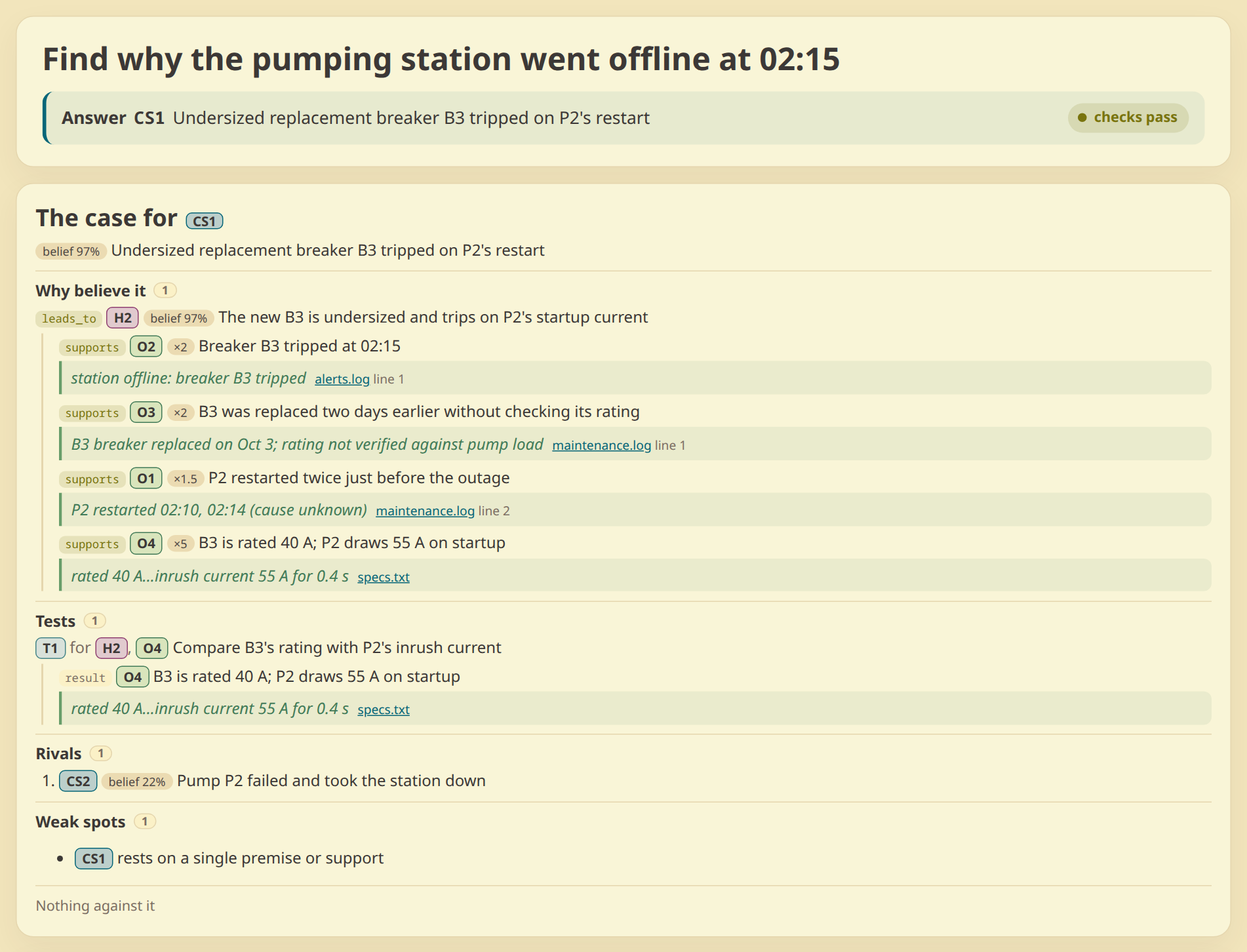
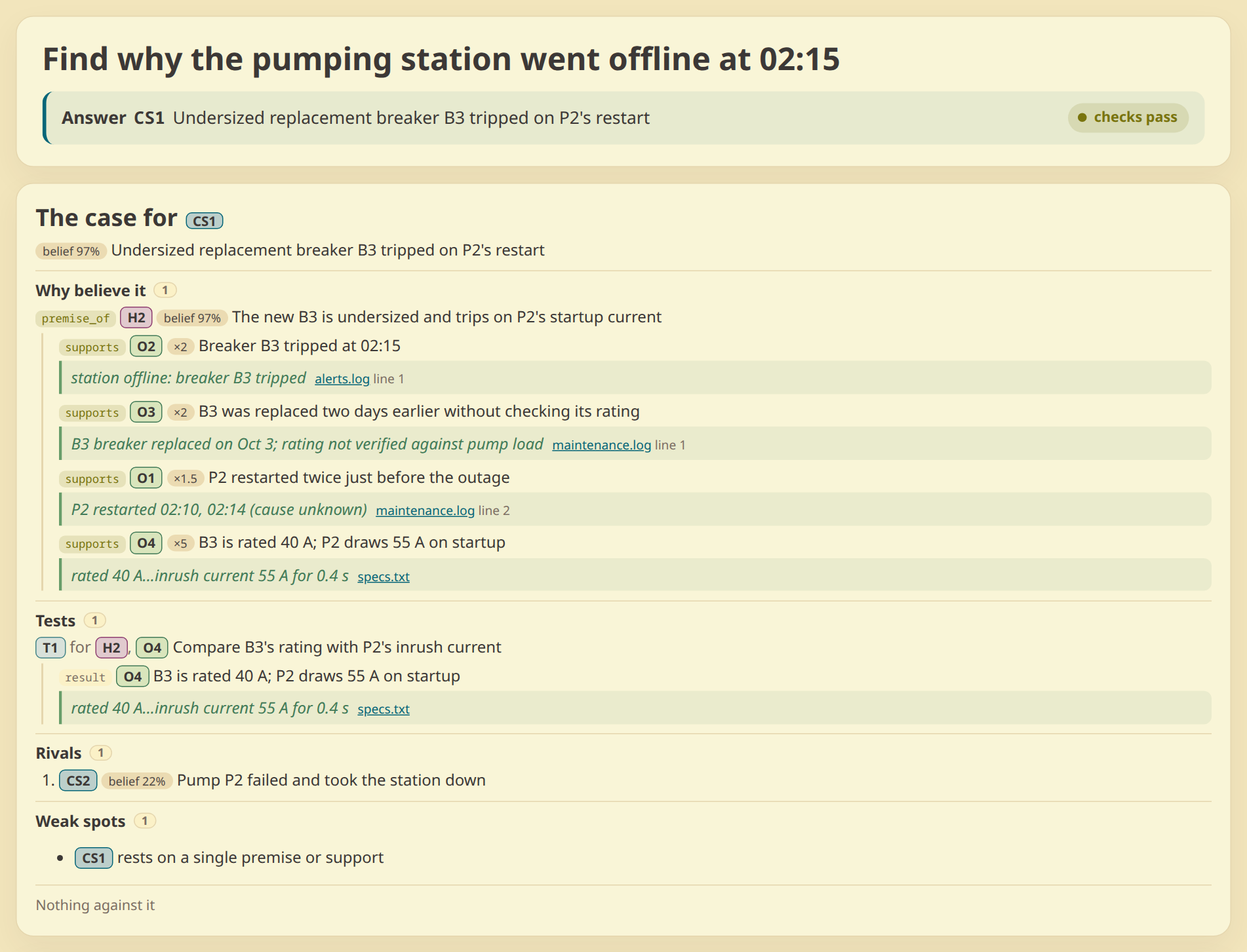
docs: describe premise_of and yields in the skill, docs, and ADR 0017
Rewords every leads_to in the skill text and its docs, the README, and
the README example, and rebuilds the screenshots, where only the edge
chip changes. ADR 0017 records the split and how to read leads_to in
earlier ADRs.

diff --git a/skills/reasoning-graph/SKILL.md b/skills/reasoning-graph/SKILL.md
@@ -73,7 +73,7 @@ Make every change through a patch. For what a patch cannot reach (`goal_policy`,
 
 - **Observations cite their source.** Set `source` to where the fact came from (file and line, section, URL, command); for a local file, start `source` with its path. When the source is text, set `quote` to the exact excerpt, hedges included ("may", "expert needed", "not checked"); join separate excerpts with `...`. `record` rejects a quote that is not verbatim in the local file its `source` names. An observation claims no more than its quote.
 - **Checks you cannot run are marked, not answered.** Add a `test` node for each check that would settle a claim, even one nobody can run here (a lab exam, an interview, forensics on a case file). Set `not_run` on it to the reason; it then needs no result, cannot have one, and shows as "not run" in the view. Never write a result for a check that did not happen.
-- **Tests get results.** A run test records what came back as an `observation` linked `test --leads_to--> observation`. A failed or inconclusive probe is still a result, and so is "not run: made moot by O7". Link the result to the claim it tested, and to any conclusion drawn from it (a separate `hypothesis`), by what it means: choosing the edge, below. Shapes: `docs/schema/tests.md`.
+- **Tests get results.** A run test records what came back as an `observation` linked `test --yields--> observation`. A failed or inconclusive probe is still a result, and so is "not run: made moot by O7". Link the result to the claim it tested, and to any conclusion drawn from it (a separate `hypothesis`), by what it means: choosing the edge, below. Shapes: `docs/schema/tests.md`.
 - **Alternatives are your call.** Add competing hypotheses or candidates when the choice between them matters to you or the task asks for alternatives; no check counts them. When at most one of them can be true, list them in an exclusive set (below).
 - **Notes are your memory.** Any node or edge may carry a `note`: caveats, what is left to check, why an inference holds, anything you want to find again when you reread the state. Write one on an edge when its score departs from the default or the link is not obvious from the two texts. What concerns no node goes in a file of your own.
 - **One node per claim for its whole life:** update it with `update_nodes` as evidence arrives instead of adding a second node for the proved form.
@@ -88,13 +88,13 @@ Delegation is optional: bounded probes (source research, file inspection, test r
 
 - every accepted goal has a `candidate_solution` answering it (or is listed in `goal_policy.optional_goals`)
 - `answer` names exactly one candidate per goal, by id or exact text. A goal's only candidate is not the answer until you name it
-- the answer candidate is evidence-grounded: all of its `leads_to` premises are grounded, or its evidence favors it on balance, counting `supports` only from grounded sources and `contradicts` from any source; observations are the base, and a score never grounds a claim
+- the answer candidate is evidence-grounded: all of its premises are grounded, or its evidence favors it on balance, counting `supports` only from grounded sources and `contradicts` from any source; observations are the base, and a score never grounds a claim
 - every `test` node has a result observation or a `not_run` reason
 
 No belief level and no ranking is checked: the answer is the candidate you name, not the one that scores highest.
 
 - If the evidence does not decide it, or you are blocked, claim no answer. Record the blocker as a hypothesis and report the open hypotheses.
-- A hypothesis that wins by elimination needs that elimination recorded as positive evidence: an observation such as "H2 ruled out" that `supports` the survivor, or a `leads_to` premise from it as choosing the edge (below) describes. Contradicting its siblings does not ground the survivor.
+- A hypothesis that wins by elimination needs that elimination recorded as positive evidence: an observation such as "H2 ruled out" that `supports` the survivor, or a `premise_of` edge from it as choosing the edge (below) describes. Contradicting its siblings does not ground the survivor.
 - The CLI checks the record, not your reading of the sources: before claiming, reread each observation the answer relies on against its `quote`, and look for evidence in the sources that cuts against the answer.
 - Ask the user before deepening search when remaining work would cost meaningful time.
 
@@ -121,7 +121,7 @@ Keep working in the same state; nothing locks it. Put the rejection in one patch
 | 3 | open | ×2 |
 | 5 | well established | ×5, the ceiling: stronger evidence still counts ×5; never proof |
 
-Defaults: observation 5, hypothesis and candidate 3, evidence edge 3. A claim with `leads_to` premises from observations or claims carries no score (choosing the edge, below), and neither do goals, constraints, and tests.
+Defaults: observation 5, hypothesis and candidate 3, evidence edge 3. A claim with premises carries no score (choosing the edge, below), and neither do goals, constraints, and tests.
 
 An evidence edge is a likelihood ratio: how much more expected the observation is if the target is true than if it is false. It measures diagnosticity, not relevance. An observation that every rival explains about as well as the target is about as expected either way: a likelihood ratio near 1, so draw no edge. One that fits the target and some rivals but not the rest is still evidence for each claim it fits; the more rivals it also fits, the closer its ratio is to 1. An unscored edge still counts as score 3, ×2. A `contradicts` edge takes the reciprocal.
 
@@ -134,9 +134,9 @@ Machine-readable contracts: `reasoning-graph schema state` and `reasoning-graph 
 Node types:
 
 - `goal` — target to prove, solve, decide, or explain
-- `observation` — what was seen, given, verified, or source-backed, recorded as observed rather than interpreted; lower its score only when the reading itself is doubtful; put that doubt into its evidence edges' scores too, since an observation's score weighs only on claims it `leads_to`
+- `observation` — what was seen, given, verified, or source-backed, recorded as observed rather than interpreted; lower its score only when the reading itself is doubtful; put that doubt into its evidence edges' scores too, since an observation's score weighs only on the claims it is a premise of
 - `constraint` — boundary valid answers must satisfy; connect with `requires`
-- `hypothesis` — claim not yet established: an interpretation, an intermediate step toward the goal, or a blocker backed by observations. Open until it has `leads_to` premises or is ruled out
+- `hypothesis` — claim not yet established: an interpretation, an intermediate step toward the goal, or a blocker backed by observations. Open until it has premises or is ruled out
 - `test` — action/check/procedure; carries no score until its result `observation` is recorded
 - `candidate_solution` — possible answer; requires `answer_kind` and a `candidate_solution -> goal` `answers` edge
 
@@ -146,14 +146,15 @@ Edge types (any edge may carry a `note`):
 - `supports` — evidence for the target, at its `score` or the default; each edge multiplies the target's odds
 - `contradicts` — evidence against the target, at its `score` or the default; does not disqualify the target by itself
 - `prompts` — non-evidential provenance from a claim to a test or follow-up
-- `leads_to` — premise the target stands or falls with (choosing the edge, below): the target takes its belief from all its premises jointly and carries no score; `supports` edges into it apply on top
+- `premise_of` — the source is a premise the target stands or falls with (choosing the edge, below): the target takes its belief from all its premises jointly and carries no score; `supports` edges into it apply on top. From an observation or claim into a hypothesis or candidate
+- `yields` — a run test to the observation that records its result; carries no belief
 - `answers` — candidate satisfies a goal; must be `candidate_solution -> goal`
-- `rules_out` — an observation that settles a claim as false: a user's rejection, a failed check the claim cannot survive. Must be `observation -> hypothesis` or `observation -> candidate_solution`, takes no score, and caps the claim's belief below 1% whatever supports it, along with every claim resting on it through `leads_to`. `audit` fails an answer that names a ruled-out claim. Undo it by changing the edge to `contradicts`
+- `rules_out` — an observation that settles a claim as false: a user's rejection, a failed check the claim cannot survive. Must be `observation -> hypothesis` or `observation -> candidate_solution`, takes no score, and caps the claim's belief below 1% whatever supports it, along with every claim resting on it as a premise. `audit` fails an answer that names a ruled-out claim. Undo it by changing the edge to `contradicts`
 
 Choosing the edge: the type decides which way belief moves. Ask whether the target stands or falls with its sources: certain if they all hold, and left without a basis if any one of them fails.
 
-- Stands and falls with them: each is a `leads_to` premise. The target's belief starts from theirs jointly, so each added premise can only lower it, and it carries no score: unset any score it had in the patch that adds its premises. A claim that combines or restates others stands or falls with them, and so does a claim a test result proves, even when clues also support it: they stay evidence on top.
-- Falls with them, but they would not make it certain: keep them as `leads_to` premises and add what is missing as a premise of its own, a hypothesis; for an elimination, that the listed rivals are all there are. That hypothesis rests on its score alone until evidence supports it; until then the target is not grounded through its premises, and `audit` fails an answer resting on it.
+- Stands and falls with them: each is a premise, linked `premise_of`. The target's belief starts from theirs jointly, so each added premise can only lower it, and it carries no score: unset any score it had in the patch that adds its premises. A claim that combines or restates others stands or falls with them, and so does a claim a test result proves, even when clues also support it: they stay evidence on top.
+- Falls with them, but they would not make it certain: keep them as premises and add what is missing as a premise of its own, a hypothesis; for an elimination, that the listed rivals are all there are. That hypothesis rests on its score alone until evidence supports it; until then the target is not grounded through its premises, and `audit` fails an answer resting on it.
 - Survives losing one of them, because another source still settles it or it never needed that one (a second proof, one of several alternatives, a corroborating clue): that one is evidence, `supports` or `contradicts` scored by its likelihood ratio, so each one adds. As premises they would multiply, and every extra one would lower the target. An observation that would make the target certainly false takes `rules_out`.
 
 Put evidence about one part of a combined claim on that part; a `supports` edge into the combined claim counts on top.

diff --git a/skills/reasoning-graph/docs/cost-model.md b/skills/reasoning-graph/docs/cost-model.md
@@ -22,8 +22,8 @@ The likelihood ratio is defined under Scores in `../SKILL.md`. A `contradicts` e
 | `hypothesis`, `candidate_solution` | 3 |
 | `supports`, `contradicts` edge | 3 |
 
-- A claim with no score takes its default, unless it is deduced: it has `leads_to` premises from observations or claims, or a `leads_to` group (choosing the edge, `../SKILL.md`). A deduced claim takes their joint belief and adds nothing of its own: a hypothesis at score 4 leading to a candidate gives the candidate belief `0.7`, not `0.35`. `record` rejects a score on a deduced claim.
-- Goals, constraints, and tests carry no score. Neither do `leads_to`, `requires`, `prompts`, and `answers` edges.
+- A claim with no score takes its default, unless it is deduced: it has premises (`premise_of` edges) or a premise group (choosing the edge, `../SKILL.md`). A deduced claim takes their joint belief and adds nothing of its own: a hypothesis at score 4 leading to a candidate gives the candidate belief `0.7`, not `0.35`. `record` rejects a score on a deduced claim.
+- Goals, constraints, and tests carry no score. Neither do `premise_of`, `yields`, `requires`, `prompts`, and `answers` edges; a test has no belief, so `yields` moves none.
 - The scale has no certainty and no impossibility: even a score 5 `contradicts` edge is a ratio that other evidence can outweigh. An observation that settles a claim as false takes a `rules_out` edge instead (below).
 - The removed fields `prior`, `confidence`, `probability`, and `posterior` on nodes and `likelihood` and `likelihood_ratio` on edges are rejected, not converted.
 
@@ -47,14 +47,14 @@ Belief is computed in cost space, where a probability `P` has cost `-ln(P)`:
 
 ```txt
 local_probability = table[score or default] for a claim without premises from observations or claims, or 1 for a deduced claim, which takes no score
-base_truth_cost(target) = -ln(local_probability) + sum(effective_truth_cost(ungrouped premises via leads_to)) + sum(-ln(leads_to group probability))
+base_truth_cost(target) = -ln(local_probability) + sum(effective_truth_cost(ungrouped premises via premise_of)) + sum(-ln(premise group probability))
 base_odds = P_base / (1 - P_base)
 updated_odds = base_odds * product(ungrouped supports/contradicts ratios) * product(supports/contradicts group ratios)
 effective_truth_cost = -ln(updated_odds / (1 + updated_odds))
 belief = exp(-effective_truth_cost)
 ```
 
-Belief accumulates through the claim graph: `leads_to` premises multiply into the target node's belief, so premises `0.7` and `0.9` give `0.63`.
+Belief accumulates through the claim graph: premises multiply into the target node's belief, so premises `0.7` and `0.9` give `0.63`.
 
 Graph labels show effective belief; node details show the authored score beside it. See [belief display](rendering.md#belief-display).
 
@@ -62,15 +62,15 @@ Graph labels show effective belief; node details show the authored score beside 
 
 - Every `supports` and `contradicts` edge updates its target, at its score or at the default 3.
 - Multiple evidence edges multiply in odds space: a default hypothesis with two default supports has odds `1 * 2 * 2` and belief `0.8`.
-- The edge score already includes how reliable the source is. An observation's own score contributes through `leads_to`; it does not dampen the observation's `supports`/`contradicts` edges.
+- The edge score already includes how reliable the source is. An observation's own score contributes through `premise_of`; it does not dampen the observation's `supports`/`contradicts` edges.
 - Evidence from a claim (`hypothesis` or `candidate_solution`) is only as strong as the claim: with source belief `b`, ratio `r` acts as `1 + b·(r − 1)`, treating a false source as uninformative. A group with claim sources uses the product of their beliefs. `supports` from a claim that is not evidence-grounded (`SKILL.md`, answer checks) has no effect; `contradicts` always applies, scaled. Claim-sourced evidence is a truth dependency, so cycles through it are invalid.
 - Correlated or overlapping evidence should be merged into one node or grouped (`schema/factors.md`), so it counts once. A group's score replaces its members' updates: two grouped supports at group score 3 double the odds once, not twice.
-- `leads_to` premises that share a cause or overlap, so they hold or fail together, are grouped the same way; the group's score is read from the claim table as their joint probability and replaces their product.
+- Premises that share a cause or overlap, so they hold or fail together, are grouped the same way; the group's score is read from the claim table as their joint probability and replaces their product.
 
-`leads_to` and `supports` move belief in opposite ways as inputs pile up. Premises multiply: the first premise replaces the claim's default with the premise's belief; each further premise can only lower it. Evidence multiplies odds, so each added support raises it. Which one a link takes is the question under choosing the edge in `../SKILL.md`. The wrong one cuts a combined claim loose from its parts, above weak ones and below strong ones, or lowers a claim with every observation that confirms it.
+`premise_of` and `supports` move belief in opposite ways as inputs pile up. Premises multiply: the first premise replaces the claim's default with the premise's belief; each further premise can only lower it. Evidence multiplies odds, so each added support raises it. Which one a link takes is the question under choosing the edge in `../SKILL.md`. The wrong one cuts a combined claim loose from its parts, above weak ones and below strong ones, or lowers a claim with every observation that confirms it.
 
 ### Ruled-out claims
 
-A `rules_out` edge from an observation caps its target's belief at `0.001`, rendered `<1%`, after premises and evidence are applied. It is a status, not a weight: the cap also covers every claim resting on the target through `leads_to`, grouped or not, and applies after their own evidence, so neither stacked support nor a premise group lifts a ruled-out claim back. Its `supports` toward other claims count for almost nothing, since claim-sourced evidence is scaled by the source's belief. A ruled-out claim is never evidence-grounded, so `audit` fails an answer that names it; that reads the edge, not a belief. Only an observation can rule a claim out, so one wrong inference cannot veto another claim, and changing the edge to `contradicts` undoes a wrong rule-out.
+A `rules_out` edge from an observation caps its target's belief at `0.001`, rendered `<1%`, after premises and evidence are applied. It is a status, not a weight: the cap also covers every claim resting on the target as a premise, grouped or not, and applies after their own evidence, so neither stacked support nor a premise group lifts a ruled-out claim back. Its `supports` toward other claims count for almost nothing, since claim-sourced evidence is scaled by the source's belief. A ruled-out claim is never evidence-grounded, so `audit` fails an answer that names it; that reads the edge, not a belief. Only an observation can rule a claim out, so one wrong inference cannot veto another claim, and changing the edge to `contradicts` undoes a wrong rule-out.
 
-`leads_to` is not an evidence update. It forms the target's base belief from the ungrouped premises and any `leads_to` groups. `supports`/`contradicts` then update that base belief.
+`premise_of` is not an evidence update. It forms the target's base belief from the ungrouped premises and any premise groups. `supports`/`contradicts` then update that base belief.

diff --git a/skills/reasoning-graph/docs/schema/tests.md b/skills/reasoning-graph/docs/schema/tests.md
@@ -18,8 +18,8 @@ A `test` node is a procedure, so it carries no score and no belief by itself. It
 
 ```txt
 H1 --prompts--> T1
-T1 --leads_to--> O9
-O9 --leads_to|supports|contradicts--> H1
+T1 --yields--> O9
+O9 --premise_of|supports|contradicts--> H1
 ```
 
 Result nodes are `observation` only: record what the test showed, not what it means. Link the result to the claim it tested, and to any conclusion drawn from it (a separate `hypothesis`), by the question under choosing the edge in `../../SKILL.md`.
@@ -51,8 +51,8 @@ A result `observation` takes the default score 5. Lower it only when the reading
     {"id": "O1", "type": "observation", "text": "The service loaded config hash a1f3, the pre-deploy file; the deployed file hashes to 9c2e"}
   ],
   "edges": [
-    {"from": "T1", "to": "O1", "type": "leads_to"},
-    {"from": "O1", "to": "H1", "type": "leads_to", "note": "The loaded file is the pre-deploy one, so the service reads stale config."}
+    {"from": "T1", "to": "O1", "type": "yields"},
+    {"from": "O1", "to": "H1", "type": "premise_of", "note": "The loaded file is the pre-deploy one, so the service reads stale config."}
   ]
 }
 ```
@@ -66,7 +66,7 @@ A result `observation` takes the default score 5. Lower it only when the reading
     {"id": "O2", "type": "observation", "text": "The restarted instance fell to the baseline error rate; the others stayed high"}
   ],
   "edges": [
-    {"from": "T2", "to": "O2", "type": "leads_to"},
+    {"from": "T2", "to": "O2", "type": "yields"},
     {"from": "O2", "to": "H1", "type": "supports", "score": 2, "note": "A restart rereads the config, but it also clears caches, so a stale cache fits too."}
   ]
 }
@@ -81,7 +81,7 @@ A result `observation` takes the default score 5. Lower it only when the reading
     {"id": "O4", "type": "observation", "text": "Replay was inconclusive because fixture token expired"}
   ],
   "edges": [
-    {"from": "T4", "to": "O4", "type": "leads_to"}
+    {"from": "T4", "to": "O4", "type": "yields"}
   ]
 }
 ```
@@ -104,15 +104,15 @@ A `record` patch adds the result node and connects it to the existing test node.
     {"id": "O1", "type": "observation", "text": "The service loaded config hash a1f3, the pre-deploy file; the deployed file hashes to 9c2e"}
   ],
   "edges": [
-    {"from": "T1", "to": "O1", "type": "leads_to"},
-    {"from": "O1", "to": "H1", "type": "leads_to", "note": "The loaded file is the pre-deploy one, so the service reads stale config."}
+    {"from": "T1", "to": "O1", "type": "yields"},
+    {"from": "O1", "to": "H1", "type": "premise_of", "note": "The loaded file is the pre-deploy one, so the service reads stale config."}
   ]
 }
 ```
 
 ## Result rule
 
-`audit` fails a claimed answer while any `test` node lacks both a result `observation` linked by `test --leads_to--> observation` and a `not_run` reason. While no answer is claimed it lists the gap as something an answer still needs.
+`audit` fails a claimed answer while any `test` node lacks both a result `observation` linked by `test --yields--> observation` and a `not_run` reason. While no answer is claimed it lists the gap as something an answer still needs.
 
 A check that ran but did not settle anything (inconclusive, blocked, failed, or skipped midway) is recorded as a result observation describing what happened (see the inconclusive example above); `not_run` is only for a check that cannot be performed here at all. A failed probe of one interpretation usually also adds `result --contradicts--> interpretation`.
 
@@ -122,6 +122,6 @@ A check that ran but did not settle anything (inconclusive, blocked, failed, or 
 - Test nodes carry no score; score the result observation instead.
 - Result nodes are `observation` only; a conclusion is a separate `hypothesis`.
 - Result observations, not test nodes, prove, support, or contradict claims.
-- Use `test --leads_to--> observation` for recorded outcomes.
+- Use `test --yields--> observation` for recorded outcomes.
 - Inconclusive checks add a result observation explaining why the check did not settle the claim.
 - A check that cannot be run here carries `not_run` with the reason and has no result observation, never an invented one.

diff --git a/skills/reasoning-graph/docs/rendering.md b/skills/reasoning-graph/docs/rendering.md
@@ -114,7 +114,7 @@ The case lets a reader check the answer without reading the graph first. It list
 
 | Part | Content |
 | --- | --- |
-| Why believe it | the `leads_to` and `supports` edges into the answer, walked down to observations: edge type, the edge's or its group's weight, id, text, belief of a claim, and an observation's verbatim quote and source. A node already shown reads `shown above` |
+| Why believe it | the `premise_of` and `supports` edges into the answer, walked down to observations: edge type, the edge's or its group's weight, id, text, belief of a claim, and an observation's verbatim quote and source. A node already shown reads `shown above` |
 | Against it | `contradicts` and `rules_out` edges into the answer or into any node of its why-tree, as `CS1 ← contradicts O6` |
 | Tests | tests that a why-tree node prompts or is checked by, or that produced a why-tree observation, with each result observation or the `not_run` reason |
 | Rivals | the other candidates of the goal, by belief, with the `contradicts` and `rules_out` edges into each |
@@ -136,9 +136,9 @@ Claim nodes show `belief <value>` in both Mermaid and offline SVG, including nod
 
 A claim with a score 5 `contradicts` edge or group against it gets one more label line naming the sources, `÷5 by O6`, and a ruled-out claim reads `ruled out by O7`. A top-score contradiction can sit beside a high belief when enough support outweighs it, so the mark keeps the conflict visible apart from the number. Node details show the same text as **Strongest against**.
 
-Node details separate **Effective belief** from **Prior**, the probability a claim's score sets before evidence, or its type's default when it has no score. A claim deduced from `leads_to` premises takes no score and has no prior. For example, a hypothesis at score 4 shows `belief 70%` and `Prior: 70%`; a candidate deduced from it shows `belief 70%` and no prior.
+Node details separate **Effective belief** from **Prior**, the probability a claim's score sets before evidence, or its type's default when it has no score. A claim deduced from premises takes no score and has no prior. For example, a hypothesis at score 4 shows `belief 70%` and `Prior: 70%`; a candidate deduced from it shows `belief 70%` and no prior.
 
-The page shows an edge's score as the number it stands for, not as `score N`. Evidence shows how much it multiplies the odds, `×2` for the default support and `÷5` for a score 5 contradiction. A `rules_out` edge has no weight; its target reads `<1%`. A `leads_to` group shows its joint probability, `joint 70%`. The case lines and the group nodes in the graph use these weights; an ungrouped `leads_to` edge has none. Every belief on the page is a whole percent, so claims compare at a glance; the ends read `>99%` and `<1%`, since no belief is certain. Rendering never writes these computed values into the state.
+The page shows an edge's score as the number it stands for, not as `score N`. Evidence shows how much it multiplies the odds, `×2` for the default support and `÷5` for a score 5 contradiction. A `rules_out` edge has no weight; its target reads `<1%`. A premise group shows its joint probability, `joint 70%`. The case lines and the group nodes in the graph use these weights; an ungrouped `premise_of` edge has none. Every belief on the page is a whole percent, so claims compare at a glance; the ends read `>99%` and `<1%`, since no belief is certain. Rendering never writes these computed values into the state.
 
 When the answer names a candidate that another candidate of the same goal outranks, the report says so under the answer: `Answer CS2 is not the top-ranked candidate for G1: CS1 ranks higher`. Only the reader is told; `audit` accepts any grounded candidate as the answer.
 

diff --git a/docs/adr/0017-premise-of-and-yields-replace-leads-to.md b/docs/adr/0017-premise-of-and-yields-replace-leads-to.md
@@ -1,0 +1,40 @@
+---
+status: accepted
+amends:
+  - 0005-node-types-name-observation-and-hypothesis-roles.md
+  - 0009-scores-are-a-five-step-scale-with-defaults.md
+  - 0014-a-ruled-out-claim-is-a-status-not-a-weight.md
+  - 0016-a-deduced-claim-carries-no-score.md
+---
+
+# `premise_of` and `yields` replace `leads_to`
+
+## Context
+
+`leads_to` named two relations. From an observation or claim, it was a premise the target stands or falls with: the target's belief is the joint belief of all its premises (ADR 0016). From a test, it linked the observation that records the test's result, a link with no belief, since a test has none. The code told the two apart by the source node's type, and the validator accepted endpoints that meant nothing: benchmark states held `leads_to` edges into a test and between two observations.
+
+The name also misread the math. `A leads_to T`, read one edge at a time, says A alone gets you to T, but one edge is one premise of T's argument, and no single premise settles T when there are several.
+
+A benchmark before this change (issue #7) found no gain in how agents type edges from the rename: given the nodes of real graphs, Sonnet gave restating or eliminating hypotheses a premise edge 25 of 60 times with `leads_to` and 17 of 60 with `premise_of` (p = 0.18). The rename is for people reading the graph, the page, and the docs, who should see what the math does.
+
+## Decision
+
+- `premise_of`: the source is a premise the target stands or falls with. It runs from an observation, hypothesis, or candidate_solution into a hypothesis or candidate_solution. Belief is unchanged from the old claim `leads_to`.
+- `yields`: a run test to the observation that records its result. It runs only from a test to an observation and moves no belief.
+- Validation enforces both and names the edge meant when one is misused: a test's result takes `yields`, a claim that calls for a test takes `prompts`, a conclusion drawn from observations is a hypothesis.
+- `leads_to` is rejected, with a message naming both replacements. No alias and no migration script.
+- Earlier ADRs keep `leads_to` as written: read it as `premise_of`, or as `yields` when it runs from a test.
+
+## Consequences
+
+- A state written before this change fails `record`, `refresh`, and `audit` until each `leads_to` is retyped by hand. Benchmark states under `test-results/` stay as written, as records of their runs.
+- A hypothesis recorded as a test's result now fails at `record`, not at `audit`.
+- The code reads premises and test results by edge type instead of by the source node's type.
+- The measured agent behaviour gives no reason to expect fewer edge mistakes, and maybe slightly fewer premise edges; the next benchmark should check.
+
+## Considered
+
+- Keep `leads_to` and only add the endpoint checks: most of the validation gain at no migration cost, and it scored higher on agent behaviour, but the name keeps misreading the math for people.
+- Split off only `yields`: removes the double meaning, but keeps the misleading name on the belief edge.
+- `deduces`: "O1 deduces H1" has the wrong subject, and a claim combining two parts is deduced by neither alone.
+- Accept `leads_to` as an alias for a while: a compatibility path, and agents would keep writing the old name from old states.

diff --git a/skills/reasoning-graph/docs/schema/factors.md b/skills/reasoning-graph/docs/schema/factors.md
@@ -9,10 +9,10 @@
 ```
 
 - `id` — unique group id.
-- `edges` — two or more edges, each named by its ends as `from-to`. All share one type (`leads_to`, `supports`, or `contradicts`) and one target.
+- `edges` — two or more edges, each named by its ends as `from-to`. All share one type (`premise_of`, `supports`, or `contradicts`) and one target.
 - `score` — required, 1 to 5: the combined weight of the grouped edges, read from the same tables as an ungrouped score (`../cost-model.md`).
   - `supports` / `contradicts`: the likelihood ratio of the whole group.
-  - `leads_to`: the joint probability that all grouped premises hold.
+  - `premise_of`: the joint probability that all grouped premises hold.
 - `note` — optional: why the edges depend on each other.
 
 The edges carry the relation, the target, and the sources, so a group names none of them. A grouped edge carries no `score` of its own; the group's score is the one number.
@@ -42,7 +42,7 @@ A group is never removed implicitly. Removing an edge or a node that a group sti
 ## Validation
 
 - `edges` lists at least two different ids, each of an existing edge.
-- The edges share one type, which is `leads_to`, `supports`, or `contradicts`, and one target.
+- The edges share one type, which is `premise_of`, `supports`, or `contradicts`, and one target.
 - An edge belongs to at most one group.
 - A grouped edge has no `score`.
 - `score` is an integer from 1 to 5.

diff --git a/plans/premise-of-and-yields.md b/plans/premise-of-and-yields.md
@@ -34,8 +34,8 @@ The benchmark in the #7 comment found no change in how agents type edges (17/60 
 
 ## Progress
 
-- [ ] Layer 1 code
-- [ ] Layer 2 docs
+- [x] Layer 1 code (08d8fd5): suite 458 passed. Tests that exercised now-invalid endpoints (a goal, constraint, or test as a premise; a premise into an observation) were removed or retargeted; a hypothesis as a test result now fails at record, so its fixture moved from invalid/audit to invalid/validate.
+- [x] Layer 2 docs: skill text, docs, README, example patch, screenshots (only the edge chip changed), ADR 0017
 - [ ] Layer 3 independent tests
 - [ ] Layer 4 review
 
@@ -44,3 +44,5 @@ The benchmark in the #7 comment found no change in how agents type edges (17/60 
 - One general message for a `leads_to` edge: a patch adds edges whose end nodes may not be in the patch, so the message cannot always tell which replacement applies.
 
 ## Surprises
+
+- `mermaid` renders without validating, so a state with a premise_of from a goal into a scored node now raises the scored-deduction error there; before, a goal source did not count as a premise. Same behaviour as any scored deduced claim since ADR 0016, so left as is.

diff --git a/skills/reasoning-graph/docs/schema/goals.md b/skills/reasoning-graph/docs/schema/goals.md
@@ -98,7 +98,7 @@ A lemma is one `hypothesis` node for its whole life. Once evidence-grounded it c
 }
 ```
 
-Once proved, a later `record` adds its `leads_to` premises to the same node and unsets any score you wrote while it was open; belief then comes from the premises alone (choosing the edge, `../../SKILL.md`):
+Once proved, a later `record` adds its premises to the same node and unsets any score you wrote while it was open; belief then comes from the premises alone (choosing the edge, `../../SKILL.md`):
 
 ```json
 {
@@ -106,7 +106,7 @@ Once proved, a later `record` adds its `leads_to` premises to the same node and 
     {"id": "O4", "type": "observation", "text": "Row generator appends only multiples of 3 (src/rows.py:12-30)", "source": "src/rows.py"}
   ],
   "edges": [
-    {"from": "O4", "to": "H3", "type": "leads_to", "note": "If every appended term is a multiple of 3, each row sum is too."}
+    {"from": "O4", "to": "H3", "type": "premise_of", "note": "If every appended term is a multiple of 3, each row sum is too."}
   ],
   "update_nodes": [{"id": "H3", "unset": ["score"]}]
 }

diff --git a/skills/reasoning-graph/docs/review.md b/skills/reasoning-graph/docs/review.md
@@ -24,8 +24,8 @@ Use belief to find where to look, then judge each spot from the evidence itself:
    expected whether its target is true or false, because every rival explains it as well.
 3. Shared cause: edges into one target from sources that share a source, an observation,
    a cause, or logical overlap, not grouped in one factor.
-4. Wrong edge type. A leads_to premise is a source its target stands or falls with:
-   certain if all its premises hold, without a basis if any one fails. Flag a leads_to
+4. Wrong edge type. A premise (`premise_of`) is a source its target stands or falls with:
+   certain if all its premises hold, without a basis if any one fails. Flag a premise
    the target would survive losing because another source still settles it (a second
    proof, one of several alternatives), or that only corroborates it (a clue); premises
    that would not make the target certain, with no premise for what is missing (an

diff --git a/skills/reasoning-graph/docs/driver.md b/skills/reasoning-graph/docs/driver.md
@@ -34,7 +34,7 @@ Use the installed `reasoning-graph` CLI. In a repository checkout, developers ma
   ],
   "edges": [
     {"from": "O1", "to": "H1", "type": "supports", "note": "An expired token right after issue points to skew."},
-    {"from": "H1", "to": "CS1", "type": "leads_to"},
+    {"from": "H1", "to": "CS1", "type": "premise_of"},
     {"from": "CS1", "to": "G1", "type": "answers"}
   ]
 }
@@ -77,7 +77,7 @@ Answer: CS1
 
 ## Edges
 - O1 -contradicts(5)-> H2 | note: Nine is before the theft
-- H1 -leads_to-> CS1
+- H1 -premise_of-> CS1
 
 ## Groups
 - F1 [O2-H1, O3-H1] score 4 | note: Both place him on site

diff --git a/README.md b/README.md
@@ -25,7 +25,7 @@ The graph does three jobs. It does not plan the work; the agent solves the probl
 - `test`: a check that would settle a claim, then its result
 - `candidate_solution`: a possible answer to the goal
 
-Edges say how they relate: `supports`, `contradicts`, `rules_out`, `leads_to`, `prompts`, `requires`, `answers`.
+Edges say how they relate: `supports`, `contradicts`, `rules_out`, `premise_of`, `yields`, `prompts`, `requires`, `answers`.
 
 After a context reset, the agent rereads `state.index.md`: one line per node and edge, with open work on top.
 
